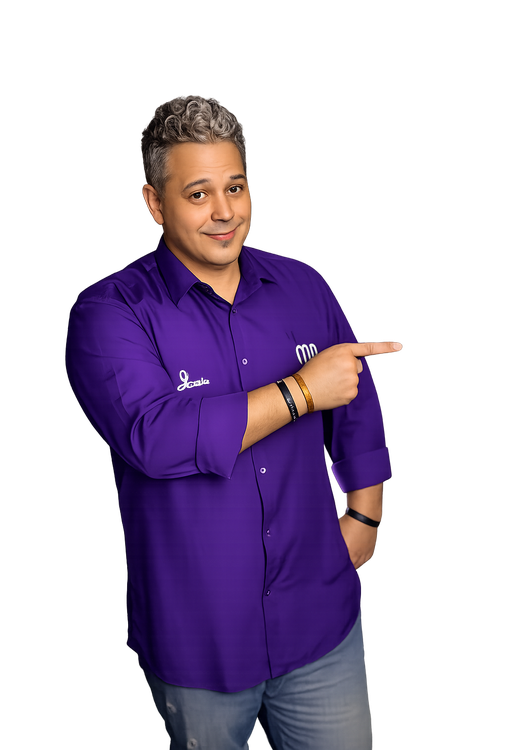
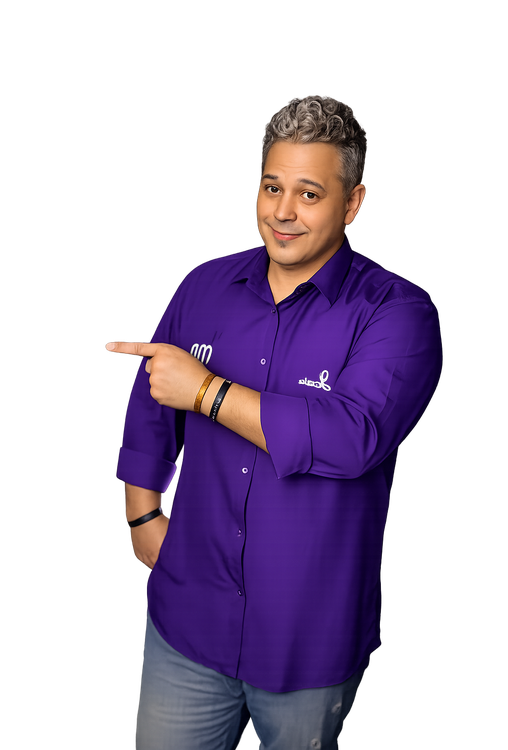
feat(site): adiciona cenário cinematográfico ao Hero da MR7

diff --git a/css/style.css b/css/style.css
@@ -7,7 +7,10 @@
 *{box-sizing:border-box}html{scroll-behavior:smooth}body{margin:0;background:var(--bg);color:var(--white);font-family:Manrope,Inter,Arial,sans-serif;overflow-x:hidden}body::before{content:"";position:fixed;inset:0;pointer-events:none;background:radial-gradient(circle at 70% 8%,rgba(115,29,255,.14),transparent 28%),linear-gradient(90deg,rgba(255,255,255,.012) 1px,transparent 1px);background-size:auto,86px 86px;opacity:.55;z-index:-1}img{max-width:100%;display:block}a{color:inherit}.container{width:min(var(--container),calc(100% - 44px));margin-inline:auto}.section-shell{position:relative;border-bottom:1px solid rgba(255,255,255,.05)}.skip-link{position:fixed;top:-50px;left:20px;background:#fff;color:#000;padding:10px 14px;z-index:9999}.skip-link:focus{top:12px}.eyebrow{margin:0 0 13px;color:#d66bff;text-transform:uppercase;letter-spacing:.24em;font-size:11px;font-weight:800}.reveal{opacity:0;transform:translateY(18px);transition:opacity .7s ease,transform .7s ease}.reveal.visible{opacity:1;transform:none}
 .site-header{position:fixed;top:0;left:0;right:0;z-index:100;background:rgba(5,0,10,.78);backdrop-filter:blur(18px);border-bottom:1px solid rgba(255,255,255,.06)}.nav-wrap{height:68px;display:grid;grid-template-columns:180px 1fr 180px;align-items:center}.brand img{width:92px}.main-nav{justify-self:center;display:flex;gap:38px}.main-nav a{font-size:13px;text-decoration:none;color:#dbd5e4;transition:.2s}.main-nav a:hover,.main-nav a:focus-visible{color:#fff;text-shadow:0 0 15px var(--violet)}.header-cta{justify-self:end}.menu-toggle{display:none;background:none;border:0;padding:8px}.menu-toggle span{display:block;width:24px;height:2px;background:#fff;margin:5px 0}
 .btn{display:inline-flex;align-items:center;justify-content:center;gap:12px;min-height:45px;padding:0 25px;border-radius:10px;font-size:13px;font-weight:800;text-decoration:none;border:1px solid transparent;cursor:pointer;transition:transform .22s ease,box-shadow .22s ease,border-color .22s ease}.btn:hover{transform:translateY(-2px)}.btn-primary{background:linear-gradient(105deg,#6f18ff,#c54cff);box-shadow:0 0 24px rgba(169,54,255,.36);color:#fff}.btn-primary:hover{box-shadow:0 0 34px rgba(169,54,255,.55)}.btn-ghost{background:rgba(255,255,255,.025);border-color:rgba(255,255,255,.28)}.btn-ghost:hover{border-color:var(--violet)}.btn-small{min-height:37px;padding:0 20px;border-radius:9px;font-size:12px}
-.hero{min-height:780px;padding:146px 0 40px;overflow:hidden;background:linear-gradient(180deg,#07000e 0%,#05000a 100%)}.hero-glow{position:absolute;width:720px;height:620px;right:-140px;top:30px;background:radial-gradient(circle,rgba(139,31,255,.34),rgba(81,8,151,.12) 42%,transparent 68%);filter:blur(6px)}.hero-seven{position:absolute;right:70px;top:26px;font-size:540px;line-height:1;font-weight:800;color:transparent;-webkit-text-stroke:3px rgba(150,46,255,.36);filter:drop-shadow(0 0 18px rgba(127,38,255,.75));opacity:.72;transform:skewX(-5deg);font-family:Arial Black,sans-serif}.hero-grid{display:grid;grid-template-columns:1.14fr .86fr;align-items:center;min-height:500px}.hero-copy{position:relative;z-index:3;padding-top:12px}.hero h1{margin:0;font-size:54px;line-height:1.07;letter-spacing:-.045em;font-weight:800;overflow-wrap:break-word;word-break:break-word}.hero h1 span{background:linear-gradient(90deg,#bd56ff,#7953ff);-webkit-background-clip:text;background-clip:text;color:transparent}.lead{max-width:580px;margin:24px 0 30px;color:#c2bdca;font-size:16.5px;line-height:1.7}.hero-actions{display:flex;gap:15px;flex-wrap:wrap}.hero-visual{height:560px;position:relative;align-self:end}.photo-light{position:absolute;left:0;right:0;bottom:25px;height:70%;background:radial-gradient(ellipse,rgba(137,49,255,.32),transparent 66%);filter:blur(24px)}.hero-person{height:600px;width:auto;position:absolute;right:-4px;bottom:-2px;z-index:2;filter:drop-shadow(0 25px 30px rgba(0,0,0,.45))}.signature{position:absolute;right:0;bottom:28px;z-index:5;text-align:right}.signature-name{font:40px Sacramento,cursive;line-height:.8;color:#fff;text-shadow:0 0 10px rgba(255,255,255,.25)}.signature small{display:block;margin-top:9px;text-transform:uppercase;letter-spacing:.22em;font-size:9px;font-weight:800;color:#eee}.stats-row{position:relative;z-index:8;display:grid;grid-template-columns:repeat(4,1fr);gap:14px;margin-top:10px}.stat-card{min-height:84px;display:flex;align-items:center;gap:15px;padding:18px 20px;border:1px solid var(--line);border-radius:10px;background:linear-gradient(145deg,rgba(255,255,255,.038),rgba(255,255,255,.018));box-shadow:inset 0 1px rgba(255,255,255,.025)}.line-icon{width:36px;height:36px;display:grid;place-items:center;color:#d04fff;filter:drop-shadow(0 0 6px #9e25ff)}.line-icon svg{width:28px;fill:none;stroke:currentColor;stroke-width:1.6;stroke-linecap:round;stroke-linejoin:round}.stat-card strong{display:block;font-size:23px}.stat-card span{display:block;color:#9e98a9;font-size:11px;margin-top:3px}
+.hero{min-height:780px;padding:146px 0 40px;overflow:hidden;background:linear-gradient(180deg,#07000e 0%,#05000a 100%)}.hero-glow{position:absolute;width:820px;height:720px;right:-150px;top:10px;z-index:1;background:radial-gradient(circle at 60% 34%,rgba(150,54,255,.40),rgba(84,16,168,.16) 40%,transparent 66%),radial-gradient(circle at 82% 66%,rgba(96,44,205,.24),transparent 55%);filter:blur(6px)}
+/* ===== Cenário de estúdio cinematográfico atrás do hero (CSS puro) ===== */
+.hero-visual::before{content:"";position:absolute;inset:-70px -50px 40px -20px;z-index:0;border-radius:26px;background:repeating-linear-gradient(95deg,transparent 0 44px,rgba(168,85,255,.16) 44px 49px,transparent 49px 96px),linear-gradient(180deg,rgba(60,20,120,.20),transparent 70%);-webkit-mask:linear-gradient(90deg,transparent 0,#000 42%,#000 100%);mask:linear-gradient(90deg,transparent 0,#000 42%,#000 100%);filter:blur(2px);opacity:.85}
+.hero-visual::after{content:"";position:absolute;inset:-40px -30px 60px 10%;z-index:0;background:radial-gradient(circle at 82% 16%,rgba(220,188,255,.55) 0 3px,transparent 5px),radial-gradient(circle at 92% 34%,rgba(184,140,255,.42) 0 5px,transparent 8px),radial-gradient(circle at 70% 24%,rgba(206,168,255,.34) 0 2px,transparent 4px),radial-gradient(circle at 96% 54%,rgba(150,120,220,.30) 0 6px,transparent 10px),linear-gradient(180deg,rgba(210,210,230,.05),transparent 30%);-webkit-mask:linear-gradient(90deg,transparent 0,#000 50%);mask:linear-gradient(90deg,transparent 0,#000 50%);filter:blur(3px);opacity:.9}.hero-seven{position:absolute;right:70px;top:26px;font-size:540px;line-height:1;font-weight:800;color:transparent;-webkit-text-stroke:3px rgba(150,46,255,.36);filter:drop-shadow(0 0 18px rgba(127,38,255,.75));opacity:.72;transform:skewX(-5deg);font-family:Arial Black,sans-serif}.hero-grid{display:grid;grid-template-columns:1.14fr .86fr;align-items:center;min-height:500px}.hero-copy{position:relative;z-index:3;padding-top:12px}.hero h1{margin:0;font-size:54px;line-height:1.07;letter-spacing:-.045em;font-weight:800;overflow-wrap:break-word;word-break:break-word}.hero h1 span{background:linear-gradient(90deg,#bd56ff,#7953ff);-webkit-background-clip:text;background-clip:text;color:transparent}.lead{max-width:580px;margin:24px 0 30px;color:#c2bdca;font-size:16.5px;line-height:1.7}.hero-actions{display:flex;gap:15px;flex-wrap:wrap}.hero-visual{height:560px;position:relative;align-self:end}.photo-light{position:absolute;left:0;right:0;bottom:25px;height:70%;background:radial-gradient(ellipse,rgba(137,49,255,.32),transparent 66%);filter:blur(24px)}.hero-person{height:600px;width:auto;position:absolute;right:-4px;bottom:-2px;z-index:2;filter:drop-shadow(0 25px 30px rgba(0,0,0,.45))}.signature{position:absolute;right:0;bottom:28px;z-index:5;text-align:right}.signature-name{font:40px Sacramento,cursive;line-height:.8;color:#fff;text-shadow:0 0 10px rgba(255,255,255,.25)}.signature small{display:block;margin-top:9px;text-transform:uppercase;letter-spacing:.22em;font-size:9px;font-weight:800;color:#eee}.stats-row{position:relative;z-index:8;display:grid;grid-template-columns:repeat(4,1fr);gap:14px;margin-top:10px}.stat-card{min-height:84px;display:flex;align-items:center;gap:15px;padding:18px 20px;border:1px solid var(--line);border-radius:10px;background:linear-gradient(145deg,rgba(255,255,255,.038),rgba(255,255,255,.018));box-shadow:inset 0 1px rgba(255,255,255,.025)}.line-icon{width:36px;height:36px;display:grid;place-items:center;color:#d04fff;filter:drop-shadow(0 0 6px #9e25ff)}.line-icon svg{width:28px;fill:none;stroke:currentColor;stroke-width:1.6;stroke-linecap:round;stroke-linejoin:round}.stat-card strong{display:block;font-size:23px}.stat-card span{display:block;color:#9e98a9;font-size:11px;margin-top:3px}
 .about{padding:84px 0 74px}.about-grid{display:grid;grid-template-columns:.9fr 1.1fr;gap:76px;align-items:center}.about h2,.services-block h2,.portfolio-block h2,.podcast-copy h2,.leadership-copy h2,.contact-intro h2{font-size:37px;line-height:1.1;letter-spacing:-.035em;margin:0 0 22px}.about-copy>p:last-of-type,.podcast-copy>p,.leadership-copy>p{color:#bcb6c6;font-size:15.5px;line-height:1.75;max-width:540px}.mini-stats{display:grid;grid-template-columns:repeat(4,1fr);margin-top:30px;border-top:1px solid rgba(255,255,255,.06);border-bottom:1px solid rgba(255,255,255,.06)}.mini-stats article{padding:18px 12px;border-right:1px solid rgba(255,255,255,.06)}.mini-stats article:first-child{padding-left:0}.mini-stats article:last-child{border-right:0}.mini-stats strong{display:block;font-size:25px}.mini-stats span{display:block;font-size:10px;line-height:1.4;color:#9f99a9;margin-top:5px}.ecosystem-map{height:410px;position:relative;display:grid;place-items:center}.orbit{position:absolute;left:50%;top:50%;transform:translate(-50%,-50%);border:2px solid rgba(143,46,255,.5);border-radius:50%;box-shadow:0 0 18px rgba(122,26,255,.26),inset 0 0 18px rgba(122,26,255,.15)}.orbit-a{width:500px;height:200px}.orbit-b{width:400px;height:290px;opacity:.55}.orbit-glow{position:absolute;width:470px;height:270px;background:radial-gradient(ellipse,rgba(124,31,255,.25),transparent 67%);filter:blur(22px)}.map-center{width:236px;height:106px;border:1px solid rgba(255,255,255,.08);border-radius:15px;background:rgba(11,2,20,.92);display:grid;place-items:center;z-index:3;box-shadow:0 0 35px rgba(109,24,255,.34)}.map-center img{width:174px}.map-node{position:absolute;z-index:4;min-width:128px;min-height:60px;display:grid;place-items:center;text-align:center;padding:10px 16px;border:1px solid var(--line-strong);border-radius:10px;background:rgba(8,1,16,.95);box-shadow:0 0 22px rgba(105,26,255,.18)}.map-node strong{font-size:15px}.map-node span{font-size:8px;color:#9e98aa;text-transform:uppercase;letter-spacing:.12em}.map-node img{max-height:42px;max-width:120px}.node-right img{max-height:60px;max-width:150px;filter:drop-shadow(0 0 8px rgba(166,194,50,.35))}.node-top{top:4px;left:50%;transform:translateX(-50%)}.node-bottom{bottom:3px;left:50%;transform:translateX(-50%)}.node-left{left:3px;top:50%;transform:translateY(-50%)}.node-right{right:3px;top:50%;transform:translateY(-50%)}
 .ecosystem{padding:0 0 68px}.ecosystem-cards{display:grid;grid-template-columns:repeat(5,1fr);gap:14px}.brand-card{min-height:238px;padding:26px 22px;border:1px solid var(--line);border-radius:10px;background:linear-gradient(155deg,rgba(255,255,255,.035),rgba(255,255,255,.012));transition:.25s}.brand-card:hover{transform:translateY(-5px);border-color:var(--line-strong);box-shadow:0 18px 35px rgba(60,0,110,.22)}.brand-card img{height:56px;width:100%;object-fit:contain;object-position:left center;margin-bottom:17px}.brand-card .cast-logo{height:78px;margin-top:-10px;filter:drop-shadow(0 0 8px rgba(166,194,50,.28))}.brand-card .tv-logo{height:64px;object-position:left center}.brand-card p{min-height:92px;color:#aaa4b3;font-size:12.5px;line-height:1.55}.brand-card a{color:#d45cff;font-size:12px;text-decoration:none;font-weight:700}.text-logo{height:56px;margin-bottom:17px;display:flex;flex-direction:column;justify-content:center;font-size:27px;font-weight:800;letter-spacing:.06em}.text-logo small{font-size:8px;letter-spacing:.25em;text-transform:uppercase;color:#9891a3}.studio-logo{font-size:17px;letter-spacing:.03em}
 .services-portfolio{padding:0 0 0}.split-grid{display:grid;grid-template-columns:.76fr 1.24fr;gap:50px}.services-block,.portfolio-block{padding-top:22px}.services-grid{display:grid;grid-template-columns:repeat(3,1fr);gap:10px;margin-top:22px}.service-card{height:108px;border:1px solid var(--line);border-radius:9px;background:rgba(255,255,255,.018);display:flex;flex-direction:column;align-items:center;justify-content:center;text-align:center;gap:10px}.service-card:hover{background:rgba(122,32,255,.08);border-color:var(--line-strong)}.service-symbol{font-size:29px;color:#ce55ff;text-shadow:0 0 12px rgba(192,45,255,.8)}.service-card strong{font-size:12px;line-height:1.25}.portfolio-grid{display:grid;grid-template-columns:repeat(5,1fr);gap:11px;margin-top:22px}.work-card{height:196px;position:relative;overflow:hidden;border:1px solid var(--line);border-radius:7px;background:#0a0212}.work-card::after{content:"";position:absolute;inset:0;background:linear-gradient(0deg,rgba(3,0,7,.95),rgba(3,0,7,.08) 60%)}.work-card img{width:100%;height:100%;object-fit:cover;transition:.35s}.work-card:hover img{transform:scale(1.06)}.work-card span{position:absolute;z-index:2;left:11px;right:9px;bottom:11px;font-size:10.5px;font-weight:800;line-height:1.25}.crm-showcase{margin-top:22px;position:relative;z-index:4}.crm-window{border:1px solid rgba(131,49,255,.55);border-radius:12px;overflow:hidden;background:#090116;box-shadow:0 22px 55px rgba(64,7,123,.38)}.crm-topbar{height:50px;display:grid;grid-template-columns:60px 1fr 210px 34px;gap:14px;align-items:center;padding:0 16px;background:#100427;border-bottom:1px solid rgba(148,52,255,.22);font-size:11px;color:#aaa4b5}.crm-topbar img{width:42px}.crm-search{height:25px;border:1px solid rgba(255,255,255,.07);border-radius:5px;display:flex;align-items:center;padding:0 10px}.crm-avatar{width:24px;height:24px;border-radius:50%;display:grid;place-items:center;background:#177ed8;color:#fff}.crm-layout{display:grid;grid-template-columns:172px 1fr;min-height:370px}.crm-sidebar{padding:18px 12px;background:#0b021a;border-right:1px solid rgba(255,255,255,.05)}.crm-sidebar a{display:block;padding:9px 11px;color:#80798d;font-size:11px;border-radius:5px;margin-bottom:4px}.crm-sidebar .active{color:#d1bbff;background:rgba(119,45,255,.16)}.crm-content{padding:24px}.crm-content h3{margin:0;font-size:20px}.crm-content h3 span{font-size:16px}.crm-content>p{margin:6px 0 22px;color:#7e7888;font-size:11px}.crm-metrics{display:grid;grid-template-columns:repeat(6,1fr);gap:10px}.crm-metrics article,.crm-bottom article{background:linear-gradient(145deg,#12052a,#0c031b);border:1px solid rgba(137,50,255,.16);border-radius:8px;padding:15px 10px;text-align:center}.crm-metrics b{display:block;font-size:19px;color:#ddd3ed}.crm-metrics span{display:block;font-size:8.5px;color:#777080;margin-top:5px}.crm-bottom{display:grid;grid-template-columns:repeat(3,1fr);gap:12px;margin-top:20px}.crm-bottom article{text-align:left;padding:19px}.crm-bottom small{font-size:8.5px;color:#777080}.crm-bottom strong{display:block;font-size:19px;margin:9px 0}.crm-bottom span{font-size:8.5px;color:#9d96a8}